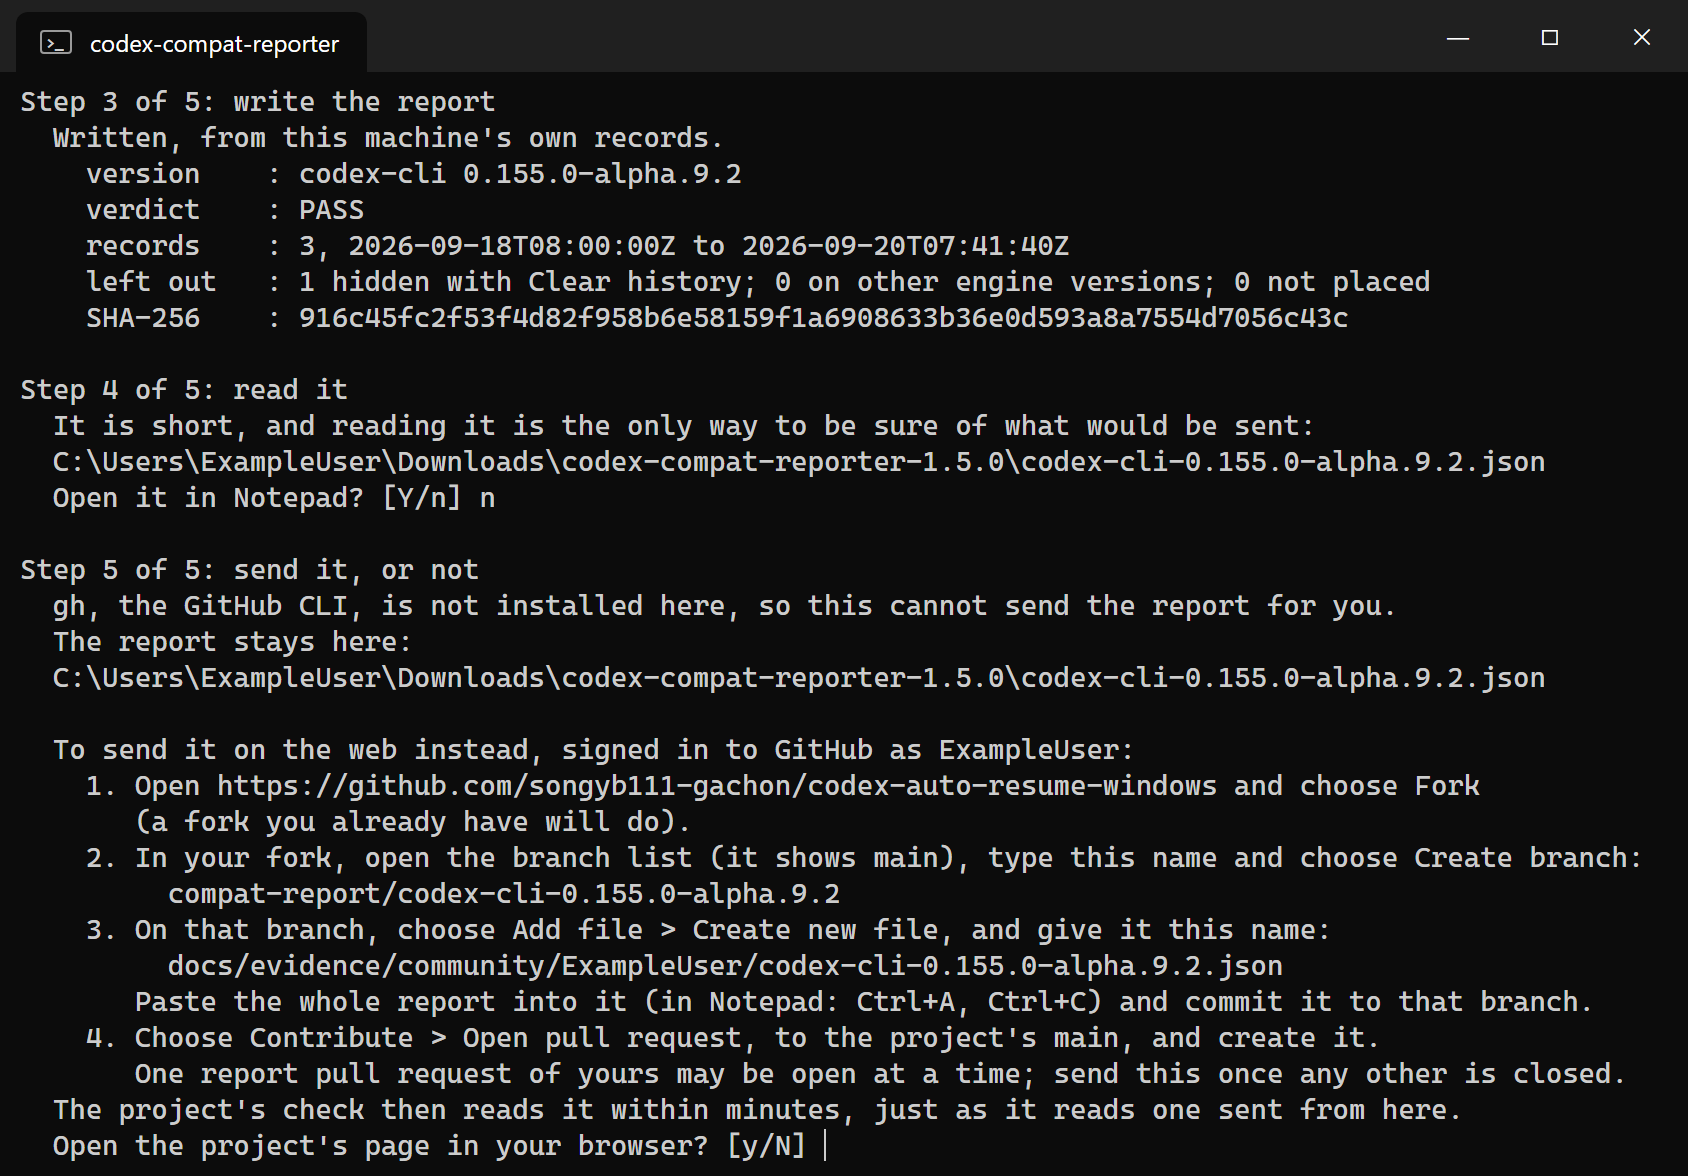
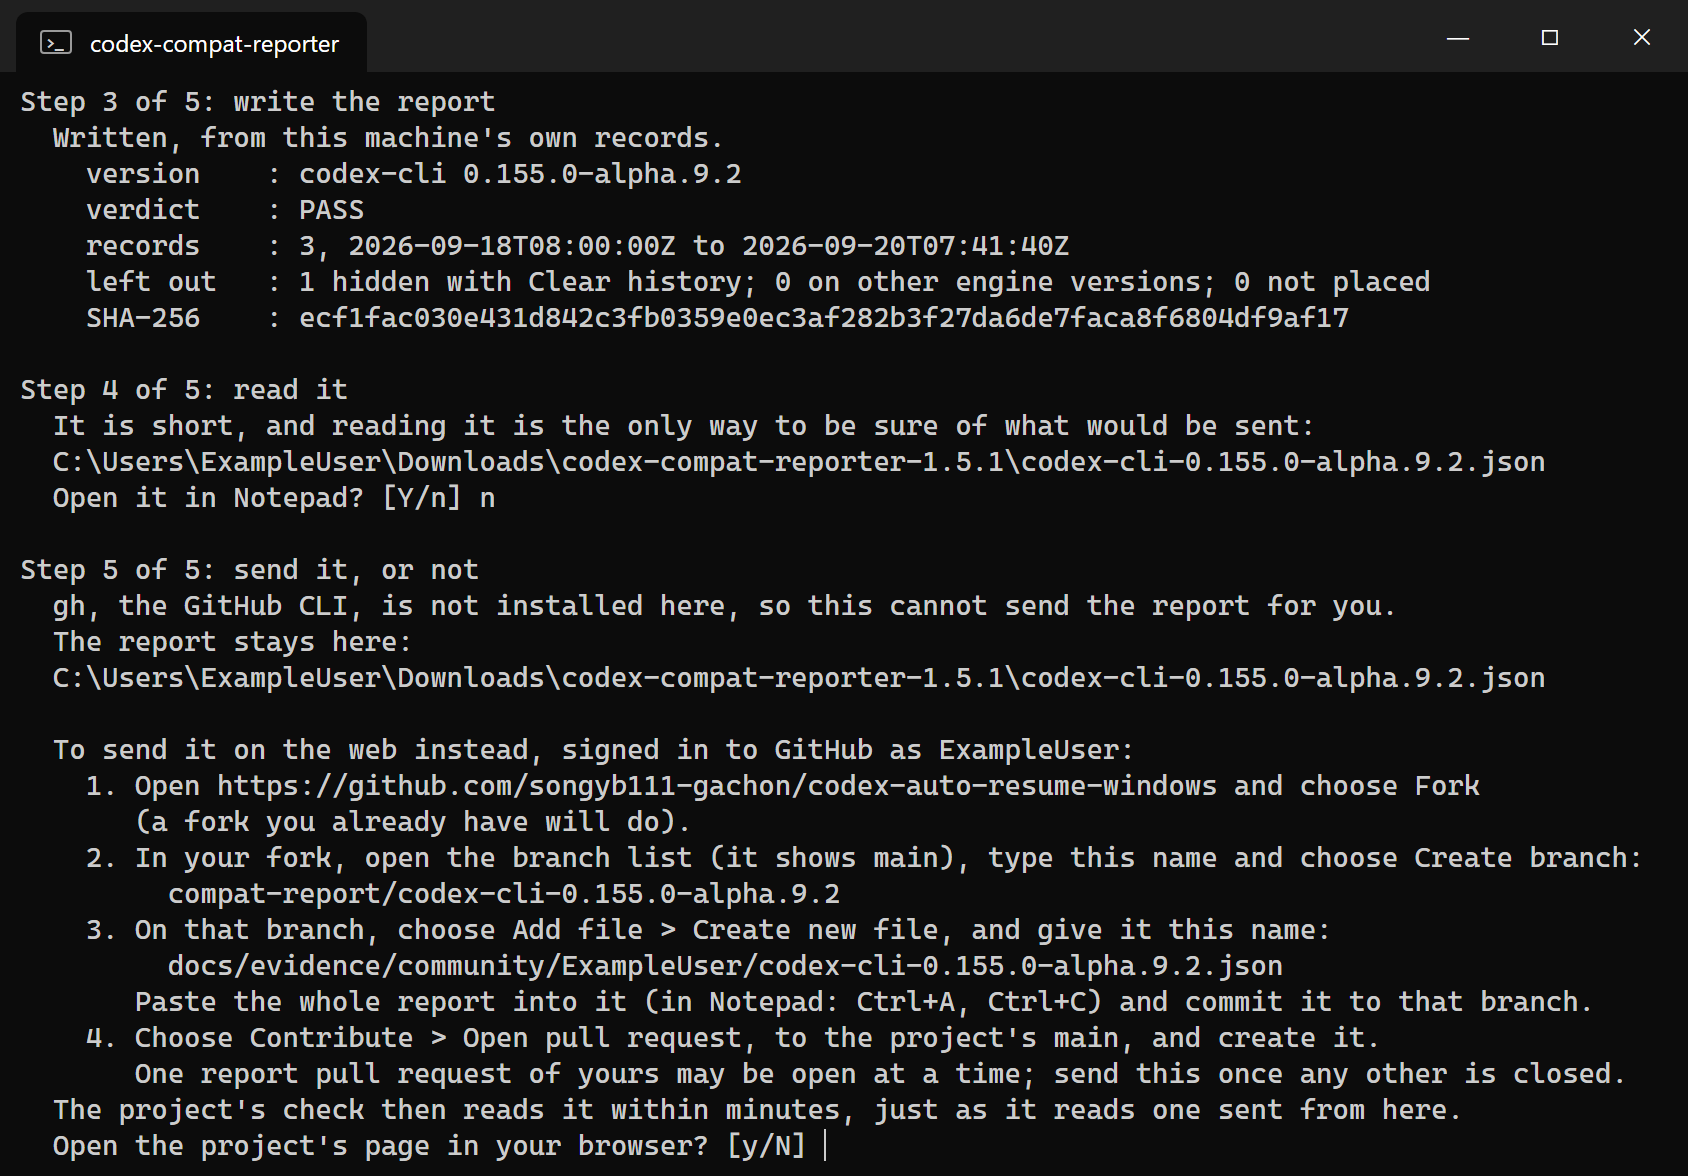
1.5.1: the reporter reads the advanced edition's spend ledger of schema 3 too
Codex Auto Resume v0.6.14-beta's advanced state is schema 3: it adds tables for its new capabilities
and leaves the spend table, the one this reporter reads, as it was. LEDGER_SCHEMAS is (1, 2, 3); a
ledger newer than that is still refused and named (the tests now use schema 4 for it). Version
1.5.1; the README's pictures are drawn again for the version they show.

Changed region(s): [[0.1848, 0.2449, 0.8009, 0.2755], [0.5853, 0.551, 0.6161, 0.5816], [0.5853, 0.3673, 0.6161, 0.398]]

diff --git a/tests/test_report.py b/tests/test_report.py
@@ -713,8 +713,8 @@ class RouteTests(unittest.TestCase):
         self.assertEqual((len(report["records"]), notes["routed"]), (2, 3))
 
     def test_a_unit_the_spend_ledger_paid_at_its_last_claim_leaves_it_out(self):
-        self.assertEqual(reporter.LEDGER_SCHEMAS, (1, 2))
-        for version in reporter.LEDGER_SCHEMAS:             # v0.6.11-alpha's ledger, and v0.6.11-beta.2's on
+        self.assertEqual(reporter.LEDGER_SCHEMAS, (1, 2, 3))
+        for version in reporter.LEDGER_SCHEMAS:             # v0.6.11-alpha's ledger, v0.6.11-beta.2's on, v0.6.14-beta's on
             with self.subTest(version):
                 report, notes, _out = self.outcome([self.other(1), self.other(2), self.other(3)], spends=[
                     ("1" * 64, NOW - 1800),          # the claim it was sent from: the goal continuation's channel
@@ -779,7 +779,7 @@ class RouteTests(unittest.TestCase):
                 ("no interruption ids", ("spend_id", "at", "capability", "thread_id"), 2,
                  "does not hold the spend ledger.*Update codex-compat-reporter"),
                 # A newer ledger, even with the same columns, could keep its units otherwise.
-                ("a newer ledger", every, 3, r"newer Codex Auto Resume than this reporter knows \(ledger schema 3\)\. "
+                ("a newer ledger", every, 4, r"newer Codex Auto Resume than this reporter knows \(ledger schema 4\)\. "
                                              r"Update codex-compat-reporter\."),
                 ("no ledger schema", every, 0, "has ledger schema 0, which no Codex Auto Resume this reporter knows")):
             with self.subTest(name):

diff --git a/codex_compat_report.py b/codex_compat_report.py
@@ -73,7 +73,7 @@ import time
 import traceback
 import uuid
 
-__version__ = "1.5.0"
+__version__ = "1.5.1"
 
 REPO = "songyb111-gachon/codex-auto-resume-windows"
 HOST = "github.com"                             # every GitHub call names it; GH_HOST never redirects one
@@ -237,7 +237,7 @@ SPEND = ("interruption_id", "at")                 # the spend ledger's columns r
 # 2, from v0.6.11-beta.2 (advanced state/schema.py SCHEMA_VERSION, the same through v0.6.12-alpha.2). Version 2
 # added arming.warnings and left the spend table as it was. A newer ledger is refused, as a newer state is:
 # it could keep its units otherwise, and what it leaves out would change with no word said.
-LEDGER_SCHEMAS = (1, 2)
+LEDGER_SCHEMAS = (1, 2, 3)
 
 # LEDGER REACH. The ledger is the one lasting mark of the goal continuation's channel, and of its route once
 # core has written that record's next gates over `plugged`, and it does not keep its units for ever: both of

diff --git a/tests/test_product_state.py b/tests/test_product_state.py
@@ -372,7 +372,7 @@ class ProductStateTests(unittest.TestCase):
     def test_a_ledger_schema_it_does_not_know_is_refused_on_the_products_own_ledger(self):
         with reporter.readonly(self.root / "v4" / "config" / "advanced" / "advanced.sqlite") as ledger:
             self.assertIn(ledger.execute("PRAGMA user_version").fetchone()[0], reporter.LEDGER_SCHEMAS)
-        for version, said in ((3, r"newer Codex Auto Resume than this reporter knows \(ledger schema 3\)\. "
+        for version, said in ((4, r"newer Codex Auto Resume than this reporter knows \(ledger schema 4\)\. "
                                   r"Update codex-compat-reporter\."),
                               (0, r"has ledger schema 0, which no Codex Auto Resume this reporter knows writes")):
             with self.subTest(version):
